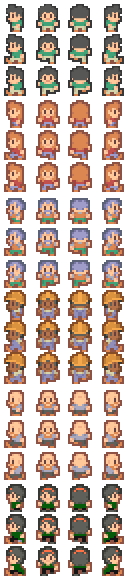
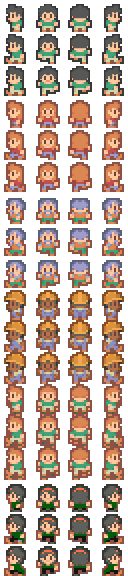
mudança no mapa e adicionado npc1 e npc2

diff --git a/main.js b/main.js
@@ -85,7 +85,21 @@ const FRAMES = {
     left: [0, 4, 8],
     right: [3, 7, 11],
     up: [2, 6, 10],
-    idle: 2
+    idle: 1
+  },
+  npc1: {
+    down: [13, 17, 21],
+    left: [12, 16, 20],
+    right: [15, 19, 23],
+    up: [14, 18, 22],
+    idle: 13
+  },
+  npc2: {
+    down: [49, 53, 57],
+    left: [48, 52, 56],
+    right: [51, 55, 59],
+    up: [50, 54, 58],
+    idle: 49
   }
 };
 
@@ -135,6 +149,16 @@ function preload() {
     frameHeight: 32
   });
 
+  this.load.spritesheet('npcP1', 'assets/personagem.png', {
+    frameWidth: 32,
+    frameHeight: 32
+  });
+
+  this.load.spritesheet('npcP2', 'assets/personagem.png', {
+    frameWidth: 32,
+    frameHeight: 32
+  });
+
 }
 
 function create() {
@@ -164,14 +188,24 @@ function create() {
   this.cameras.main.setBackgroundColor('#84C669');
 
   // 5. Inicialização dos Jogadores
-  this.playerEla = this.physics.add.sprite(270, 1820, 'playerEla', FRAMES.ela.idle);
+  this.playerEla = this.physics.add.sprite(1488, 496, 'playerEla', FRAMES.ela.idle);
   this.playerEle = this.physics.add.sprite(2982, 580, 'playerEle', FRAMES.ele.idle);
+
+   // 5. Inicialização dos npc
+  this.npcP1 = this.physics.add.sprite(1488, 496, 'npcP1', FRAMES.npc1.idle);
+  this.npcP2 = this.physics.add.sprite(2982, 580, 'npcP2', FRAMES.npc2.idle);
 
   this.playerEla.setCollideWorldBounds(true);
   this.playerEle.setCollideWorldBounds(true);
 
+  this.npcP1.setCollideWorldBounds(true);
+  this.npcP2.setCollideWorldBounds(true);
+
   this.physics.add.collider(this.playerEla, layer);
   this.physics.add.collider(this.playerEle, layer);
+
+  this.physics.add.collider(this.npcP1, layer);
+  this.physics.add.collider(this.npcP2, layer);
 
   criarAnimacoes(this);
 
@@ -548,7 +582,7 @@ function configurarZonas() {
   });
 
   // Zona Alemao
-  this.zonaAlemao = this.add.zone(1726, 688, 40, 20);
+  this.zonaAlemao = this.add.zone(1361, 550, 80, 80);
   this.physics.world.enable(this.zonaAlemao);
   this.zonaAlemao.body.setAllowGravity(false);
 
@@ -1753,10 +1787,19 @@ function terceiroEncontro(){
 
 function iniciarDialogoAlemao(){
   pararPersonagens.call(this);
-  this.playerEle.setPosition(1743, 716);
-  this.playerEla.setPosition(1713, 716);
-  forcarDirecao(this.playerEle, 'ele', 'left');
-  forcarDirecao(this.playerEla, 'ela', 'right');
+
+  this.playerEla.setPosition(1380, 560);
+  this.playerEle.setPosition(1339, 560);
+
+  this.npcP1.setPosition(1520, 566);
+  this.npcP2.setPosition(1616, 566);
+
+  forcarDirecao(this.playerEle, 'ele', 'right');
+  forcarDirecao(this.playerEla, 'ela', 'left');
+
+  forcarDirecao(this.npcP1, 'npc1', 'right');
+  forcarDirecao(this.npcP2, 'npc2', 'left');
+
   olharUmParaOutro.call(this, getPersonagemAtivo(this), getNpc(this));
   this.playerEla.body.moves= false;
   this.playerEle.body.moves = false;
@@ -1832,21 +1875,33 @@ function encontroPracaterere() {
       this.playerEla.body.moves = true;
       this.playerEle.body.moves = true;
       mudarParaNoite(this, 2000)
-      this.playerEla.setPosition(548, 1706);
-      this.playerEle.setPosition(548, 1706);
+      this.playerEla.setPosition(1471, 624);
+      this.playerEle.setPosition(1471, 624);
       mudarCameraDePlayer(this.cameras.main, this.playerEla, this);
-      gameState.missaoAtual = 'levarParaCasaSegundoEncontro';
-      mostrarObjetivo.call(this, "Voltar para casa 🏡", 4000);
-      atualizarMarcadorMissao.call(this);
+     // gameState.missaoAtual = 'levarParaCasaSegundoEncontro';
+      //mostrarObjetivo.call(this, "Voltar para casa 🏡", 4000);
+      //atualizarMarcadorMissao.call(this);
+      gameState.missaoAtual = 'irLanchoneteAlemao';
+  gameState.subMissao = 'beijala';
+  mostrarObjetivo.call(this, "Ir até a lanchonete do Alemão", 4000);
+  atualizarMarcadorMissao.call(this);
 }
 
 
 // --- 6. MOVIMENTAÇÃO E ANIMAÇÕES ---
 
 function criarAnimacoes(scene) {
-  const tipos = ['ela', 'ele'];
+  // Adicione 'npc1' e 'npc2' na lista de tipos
+  const tipos = ['ela', 'ele', 'npc1', 'npc2']; 
+  
   tipos.forEach(tipo => {
-    const spriteKey = tipo === 'ela' ? 'playerEla' : 'playerEle';
+    // Define qual sprite usar para cada tipo
+    let spriteKey;
+    if (tipo === 'ela') spriteKey = 'playerEla';
+    else if (tipo === 'ele') spriteKey = 'playerEle';
+    else if (tipo === 'npc1') spriteKey = 'npcP1';
+    else if (tipo === 'npc2') spriteKey = 'npcP2';
+
     ['down', 'left', 'right', 'up'].forEach(dir => {
       scene.anims.create({
         key: `${tipo}-${dir}`,
